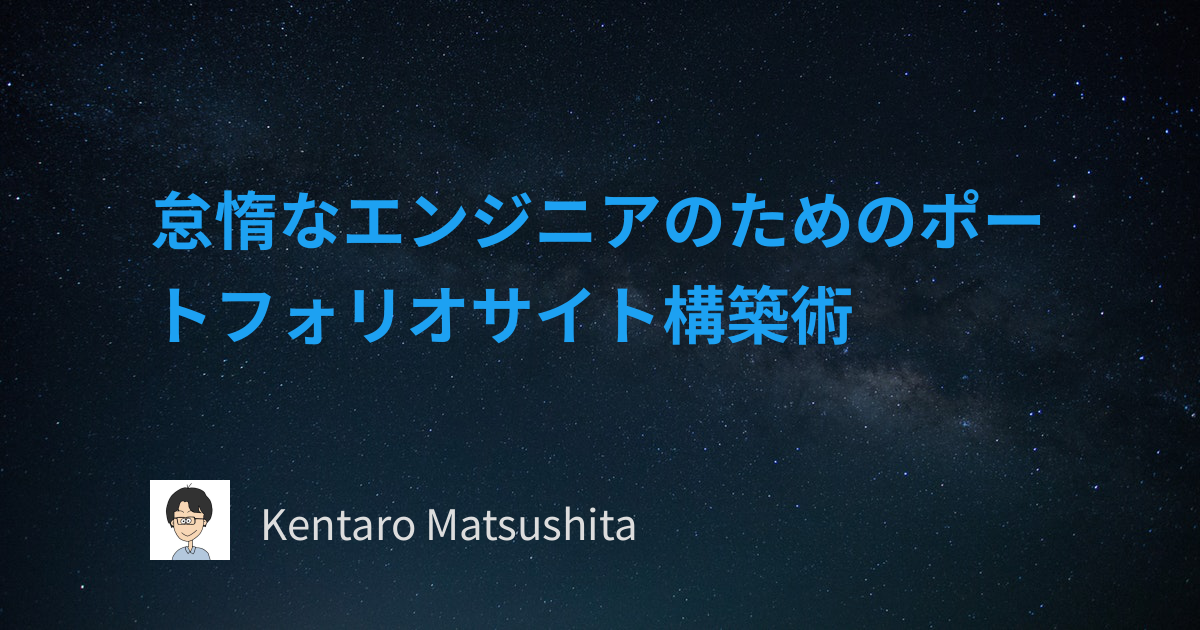
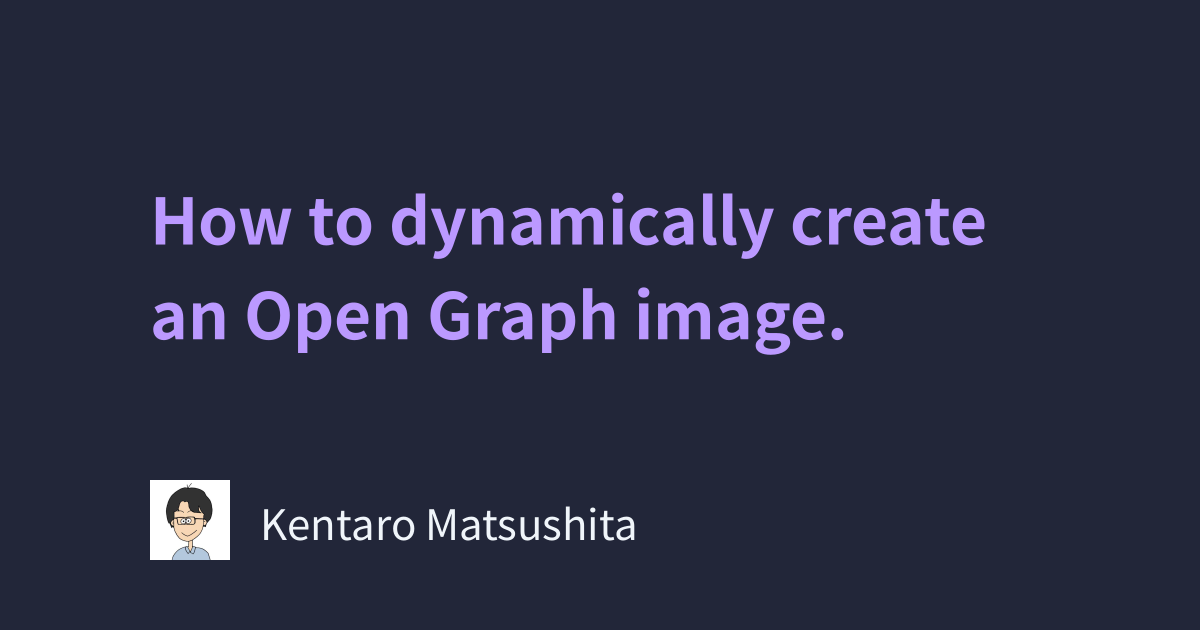
Change package name (#2)

diff --git a/src/example.js b/src/example.js
@@ -1,63 +1,61 @@
-require('colors')
-const generateOpenGraphImage = require('.')
+const catchy = require('.')
 
-const config = {
-  output: {
-    directory: '',
-    fileName: 'thumbnail.png',
-  },
-  image: {
-    width: 1200,
-    height: 630,
-    backgroundColor: '#15202B',
-    backgroundImage: require.resolve('./images/background.jpg'),
-  },
-  style: {
-    title: {
-      fontFamily: 'Noto Sans CJK JP',
-      fontColor: '#1DA1F2',
-      fontWeight: 'bold',
-      fontSize: 64,
-      paddingTop: 100,
-      paddingBottom: 200,
-      paddingLeft: 150,
-      paddingRight: 150,
-    },
-    author: {
-      fontFamily: 'Noto Sans CJK JP',
-      fontColor: '#DDDDDD',
-      fontWeight: '400',
-      fontSize: 42,
-    },
-  },
-  meta: {
-    title: '怠惰なエンジニアのためのポートフォリオサイト構築術',
-    author: 'Kentaro Matsushita',
-  },
-  fontFile: [
-    {
-      path: require.resolve('./fonts/NotoSansCJKjp-Bold.otf'),
-      family: 'Noto Sans CJK JP',
-      weight: 'bold',
-    },
-    {
-      path: require.resolve('./fonts/NotoSansCJKjp-Regular.otf'),
-      family: 'Noto Sans CJK JP',
-      weight: '400',
-    },
-  ],
-  iconFile: require.resolve('./images/avatar.jpeg'),
-  timeout: 10000,
+async function run() {
+  try {
+    const options = {
+      output: {
+        directory: '',
+        fileName: 'thumbnail.png',
+      },
+      image: {
+        width: 1200,
+        height: 630,
+        backgroundColor: '#222639',
+        // backgroundImage: require.resolve('./images/background.jpg'),
+      },
+      style: {
+        title: {
+          fontFamily: 'Noto Sans CJK JP',
+          fontColor: '#bb99ff',
+          fontWeight: 'bold',
+          fontSize: 64,
+          paddingTop: 100,
+          paddingBottom: 200,
+          paddingLeft: 150,
+          paddingRight: 150,
+        },
+        author: {
+          fontFamily: 'Noto Sans CJK JP',
+          fontColor: '#f0f5fa',
+          fontWeight: '400',
+          fontSize: 42,
+        },
+      },
+      meta: {
+        title: 'How to dynamically create  an Open Graph image.',
+        author: 'Kentaro Matsushita',
+      },
+      fontFile: [
+        {
+          path: require.resolve('./fonts/NotoSansCJKjp-Bold.otf'),
+          family: 'Noto Sans CJK JP',
+          weight: 'bold',
+        },
+        {
+          path: require.resolve('./fonts/NotoSansCJKjp-Regular.otf'),
+          family: 'Noto Sans CJK JP',
+          weight: '400',
+        },
+      ],
+      iconFile: require.resolve('./images/avatar.jpeg'),
+      timeout: 10000,
+    }
+
+    const output = await catchy.generate(options)
+    console.log(`INFO - Successfully generated: ${output}`)
+  } catch (error) {
+    console.error(`ERROR - ${error.message}`)
+  }
 }
 
-/**
- * Add an exclamation mark to avoid formatting codes of an immediately invoked function expression (IIFE).
- */
-!(async () => {
-  try {
-    const output = await generateOpenGraphImage(config)
-    console.log('INFO'.brightBlue + ' - ' + `Generated an image: ${output}`)
-  } catch (error) {
-    console.error('ERROR'.brightRed + ' - ' + error.message)
-  }
-})()
+run()

diff --git a/src/index.js b/src/index.js
@@ -99,7 +99,7 @@ function getImage(fileData) {
  *
  * @param {Object} options options to generate an image
  */
-async function generateOpenGraphImage(options) {
+async function generateImage(options) {
   if ('fontFile' in options && options.fontFile.length > 0) {
     options.fontFile.forEach(({ path, family, weight }) => {
       registerFont(path, {
@@ -214,19 +214,23 @@ function timeout() {
   }
 }
 
-module.exports = async options => {
-  const t = timeout()
+const generate = async options => {
+  const timeoutHandler = timeout()
 
   return Promise.race([
-    generateOpenGraphImage(options),
-    t.handle(options.timeout),
+    generateImage(options),
+    timeoutHandler.handle(options.timeout),
   ])
     .then(output => {
-      t.cancel()
+      timeoutHandler.cancel()
       return output
     })
     .catch(error => {
-      t.cancel()
+      timeoutHandler.cancel()
       throw error
     })
+}
+
+module.exports = {
+  generate,
 }

diff --git a/README.md b/README.md
@@ -1,4 +1,4 @@
-# Generate Open Graph Image
+# catchy-image
 A npm package for generating Open Graph images like Twitter Cards.
 
 **This package is under development.**
@@ -14,71 +14,72 @@ An image generated from this package.
 Install a package using the npm CLI. I have not published this package on npm yet. You can install it from GitHub instead.
 
 ```bash
-$ npm install --save kentaro-m/generate-og-image
+$ npm install --save kentaro-m/catchy-image
 ```
 
 Write codes for importing a module, setting up options for generating an image, and executing a module.
 
 ```js
-const generateOpenGraphImage = require('generate-og-image')
+const catchy = require('catchy-image')
 
-const options = {
-  output: {
-    directory: '',
-    fileName: 'thumbnail.png',
-  },
-  image: {
-    width: 1200,
-    height: 630,
-    backgroundColor: '#15202B',
-    backgroundImage: require.resolve('./images/background.jpg'),
-  },
-  style: {
-    title: {
-      fontFamily: 'Noto Sans CJK JP',
-      fontColor: '#1DA1F2',
-      fontWeight: 'bold',
-      fontSize: 64,
-      paddingTop: 100,
-      paddingBottom: 200,
-      paddingLeft: 150,
-      paddingRight: 150,
-    },
-    author: {
-      fontFamily: 'Noto Sans CJK JP',
-      fontColor: '#DDDDDD',
-      fontWeight: '400',
-      fontSize: 42,
-    },
-  },
-  meta: {
-    title: '怠惰なエンジニアのためのポートフォリオサイト構築術',
-    author: 'Kentaro Matsushita',
-  },
-  fontFile: [
-    {
-      path: require.resolve('./fonts/NotoSansCJKjp-Bold.otf'),
-      family: 'Noto Sans CJK JP',
-      weight: 'bold',
-    },
-    {
-      path: require.resolve('./fonts/NotoSansCJKjp-Regular.otf'),
-      family: 'Noto Sans CJK JP',
-      weight: '400',
-    },
-  ],
-  iconFile: require.resolve('./images/avatar.jpeg'),
-  timeout: 10000,
+async function run() {
+    const options = {
+      output: {
+        directory: '',
+        fileName: 'thumbnail.png',
+      },
+      image: {
+        width: 1200,
+        height: 630,
+        backgroundColor: '#222639',
+        // backgroundImage: require.resolve('./images/background.jpg'),
+      },
+      style: {
+        title: {
+          fontFamily: 'Noto Sans CJK JP',
+          fontColor: '#bb99ff',
+          fontWeight: 'bold',
+          fontSize: 64,
+          paddingTop: 100,
+          paddingBottom: 200,
+          paddingLeft: 150,
+          paddingRight: 150,
+        },
+        author: {
+          fontFamily: 'Noto Sans CJK JP',
+          fontColor: '#f0f5fa',
+          fontWeight: '400',
+          fontSize: 42,
+        },
+      },
+      meta: {
+        title: 'How to dynamically create  an Open Graph image.',
+        author: 'Kentaro Matsushita',
+      },
+      fontFile: [
+        {
+          path: require.resolve('./fonts/NotoSansCJKjp-Bold.otf'),
+          family: 'Noto Sans CJK JP',
+          weight: 'bold',
+        },
+        {
+          path: require.resolve('./fonts/NotoSansCJKjp-Regular.otf'),
+          family: 'Noto Sans CJK JP',
+          weight: '400',
+        },
+      ],
+      iconFile: require.resolve('./images/avatar.jpeg'),
+      timeout: 10000,
+    }
+
+    const output = await catchy.generate(options)
+    console.log(`Successfully generated: ${output}`)
+  } catch (error) {
+    console.error(error)
+  }
 }
 
-(async () => {
-  try {
-    // Return an image file path (e.g. og-image.png)
-    const output = await generateOpenGraphImage(options)
-  } catch (error) {
-    // Add an error handling
-  }
-})()
+run()
 ```
 
 ## :construction_worker: Development
